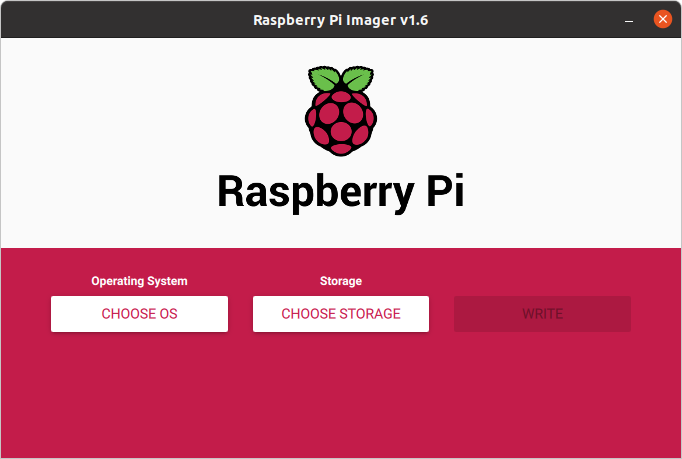
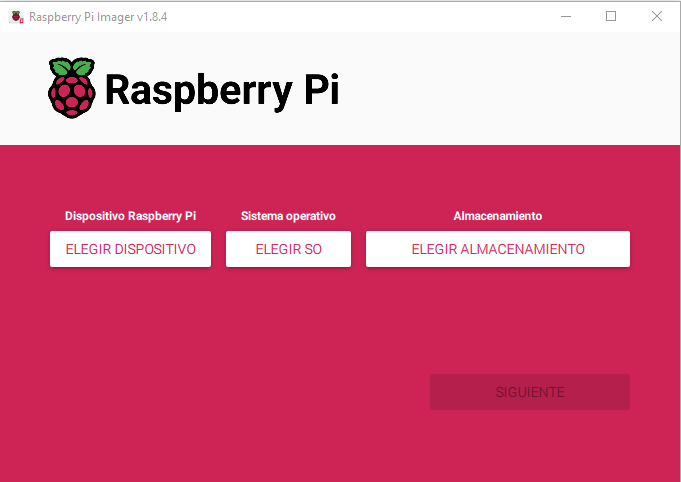
Nueva versión QuickStart

diff --git a/docs/Quick_Start.md b/docs/Quick_Start.md
@@ -4,6 +4,17 @@ title: Quick Start
 nav_order: 2
 ---
 # Puesta en marcha rápida de la Raspberry Pi
+{: .no_toc }
+
+<details open markdown="block">
+  <summary>
+    Tabla de contenidos
+  </summary>
+  {: .text-delta }
+- TOC
+{:toc}
+</details>
+
 
 ## Raspberry Pi OS
 El sistema operativo “oficial” de la Raspberry Pi es el Raspberry Pi OS, anteriormente denominado *Raspbian*. Es una adaptación de *Debian*, la popular distribución de Linux. Además de *Raspberry PI OS* (*Raspbian*) se pueden instalar otros sistemas operativos adaptados a la arquitectura ARM del procesador de la Raspberry, incluida una versión de Windows 10.
@@ -14,7 +25,8 @@ Este apartado explica cómo utilizar el instalador **Raspberry Pi Imager** para 
 
 El programa de grabación de la imagen está disponible tanto para Windows como Linux.
 
-**En esta documentación se utilizará indistintamente la nomenclatura *Raspbian* o *Raspberry Pi OS* para hacer referencia al sistema operativo.**
+{: .note }
+En esta documentación se utilizará indistintamente la nomenclatura *Raspbian* o *Raspberry Pi OS* para hacer referencia al sistema operativo.
 
 
 ## Descarga de Raspberry Pi Imager
@@ -30,7 +42,7 @@ Si el instalador de Ubuntu no se nos lanza automáticamente, podemos descargar e
 
 
 ## Grabación de la imagen
-Una vez instalado el programa de *Raspberry Pi Imager*, procedemos a la grbación de la imagen en la tarjeta SD.
+Una vez instalado el programa de *Raspberry Pi Imager*, procedemos a la grabación de la imagen en la tarjeta SD.
 
 Introducimos la tarjeta SD en el ordenador.
 
@@ -38,23 +50,290 @@ Ejecutamos el programa *Raspberry Pi Imager*.
 
 <img src="./images/0002.png" width="600">
 
-Una vez está en ejecución el programa, pulsamos la combinación mágica de teclas **Ctrl+May+X**.
+En la primera pantalla debemos indicar el modelo del dispositivo Raspberry Pi con el que vamos a trabajar, elegir el sistema operativo a instalar y la unidad donde está la tarjeta SD. 
 
-<img src="./images/0003.png" width="600">
+Para elegir el sistema operativo podemos optar por:
+- Seleccionar el sistema operativo de la lista que nos propone y que el *Imager* lo descargue automáticamente de Internet.
+- Descargar nosotros previamente el SO e indicarle en qué carpeta se encuentra nuestro fichero *.img*
 
-Rellenamos con las opciones de Configuración:
-- Ponemos el nombre de Hostname
-- Habilitamos el SSH
-- Ponemos la contraseña nueva para el ususario *Pi*
-- Configuramos la WiFi en caso de que nos vayamos a conectar por WiFi (Importante seleccionar el país de la Red WiFi)
-- Establecemos el idioma del teclado y la zona horaria
-
-Una vez guardadas las opciones de configuración, debemos elegir el sistema operativo a instalar. En este caso podemos optar por:
-- Seleccionar el sistema operativo y que el Instaler lo descargue automáticamente de Internet.
-- Descargar nosotros previamente el SO e indicarle en que carpeta se encuentra nuestro fichero *.img*
-
-Si optamos por descargarlo en ese momento, debemos asegurarnos de seleccionar el Raspbian versión Lite. Para ello pulsamos sobre **Raspberry Pi OS (Other)** y después **Raspberry Pi OS Lite (32 bits)**.
+Si optamos por descargarlo en ese momento, debemos asegurarnos de seleccionar el Raspbian versión Lite, es decir, la que no lleva interfaz gráfica puesto que no la vamos a utilizar. Para ello pulsamos sobre **Raspberry Pi OS (Other)** y después **Raspberry Pi OS Lite (64 bits)**.
 
 <img src="./images/0004.png" width="600">
 
-Sólo nos queda seleccionar la unidad de la Tarjeta SD y darle a **Write**
+Pulsamos *siguiente* y procedemos a ajustar los parámetros de personalización, que no hará más sencilla la post-instalación del sistema. Para ello pulsamos sobre *Editar Ajustes*.
+
+Rellenamos con las opciones de Configuración:
+- Ponemos el nombre de Hostname (cada uno que ponga su nombre o apellido)
+- Ponemos un pmbre de usuario y una contraseña nueva para ese ususario. Si no la especificamos por defecto será *pi* y contraseña *raspberry*
+- Configuramos la WiFi en caso de que nos vayamos a conectar por WiFi (Importante seleccionar el país de la Red WiFi)
+- Establecemos el idioma del teclado y la zona horaria
+- **Importante:** En la pestaña *Servicios* habilitamos el acceso por SSH
+
+Una vez guardadas las opciones de configuración, sólo nos queda acptar los ajustes para que empiece a escribir el Sistema Operativo en la tarjeta SD.
+
+
+## Puesta en marcha
+Una vez flasheada la tarjeta SD y creados y modificados los ficheros necesarios, la extraemos del ordenador, la introducimos en la Raspberry Pi y conectamos la fuente de alimentación y el cable de red (si no hubiéramos configurado la conexión WiFi).
+
+Al enchufar la fuente de alimentación se enciende la automáticamente la Raspberry, arrancando el sistema operativo que hemos grabado en la tarjeta SD.
+
+Si hubiéramos conectado un monitor por el puerto HDMI, así como un teclado y un ratón por los puertos USB, tendríamos un terminal listo para ser utilizado, pero vamos a prescindir de monitor, teclado y ratón y la conexión la haremos vía terminal remoto.
+
+{: .highlight }
+Si la configuración que hemos grabado ha sido correcta, al arrancar la Raspberry se ha debido activar el servicio SSH y se ha debido configurar la red o la conexión WiFi que hemos configurado, pero no sabemos la IP. El primer paso será averiguar nuestra IP mediante alguna herramienta de escaneo de la red o accediendo al router y ver qué dirección se le ha asignado. Una vez averiguada esa IP ya estaremos en condiciones de conectarnos de manera remota desde un terminal SSH.
+
+
+### Conexión por SSH
+Con la Raspberry Pi funcionando y el servicio SSH arrancado, el siguiente paso será abrir una sesión remota desde nuestro ordenador.
+
+Para conectarnos vía SSH necesitamos tener instalado en nuestro equipo un cliente SSH. Uno de los más populares es el programa PuTTY, que nos podemos descargar gratuitamente, pues es software libre (https://www.putty.org/). PuTTY nos permite conectarnos vía ssh, pero también utilizando otros protocolos.
+
+Nosotros vamos a utilizar el cliente ssh que viene instalado tanto en Linux como en Windows. Para ello basta con abrir un terminal y ejecutar el mandato *ssh*.
+
+Lo primero que debemos hacer es averiguar la IP de nuestra Raspberry Pi (si no le hemos indicado IP estática). Podemos utilizar cualquier programa de escaneo de la red. Si utilizamos Linux, desde la línea de comandos podemos ejecutar el comando *nmap*. En primer lugar lo instalamos:
+
+    $ sudo apt update
+    $ sudo apt install nmap -y
+
+Una vez instalado vamos a escanear aquellas máquinas que tienen el puero 22 (ssh) abierto de nuestra red:
+
+    $ nmap -p 22 --open 192.168.1.0/24
+
+Una de las que salgan será nuestra Raspberry Pi. Procedemos a conectarnos una vez identificada.
+
+Podemos ejecutar el ssh indicándole simplemente la dirección IP del servidor (en este caso nuestra Raspberry), pero intentaría conectarse con el nombre del usuario con el que estamos conectados. Para conectarnos con un usuario distinto debemos indicárselo en el mandato de conexión anteponiéndolo a la dirección ip:
+
+    ssh usuario@dirección_ip
+
+Por defecto, Raspbian ha creado un usuario llamado *pi* cuya contraseña es *raspberry*, a no ser que le hayamos indicado otro en los ajustes de *Imager*:
+- Usuario: **pi**
+- Contraseña: **raspberry**
+
+Nos conectamos utilizando esas credenciales a la dirección que se le ha asignado a la Raspberry Pi. Ejecutamos el comando ssh:
+
+    $ ssh pi@192.168.1.99
+
+Nos pide que confirmemos la conexión a pesar de no tener un certificado de confianza del lugar al que nos conectamos. Contestamos **yes**
+
+    The authenticity of host '192.168.1.99 (192.168.1.99)' can't be established.
+    ECDSA key fingerprint is SHA256:N2/8mPHeuypQ4f8QgBWbeCEMaqyQxse/BzzvAE8uilc.
+    Are you sure you want to continue connecting (yes/no)? yes
+
+A continuación nos pide la contraseña. En nuestro caso **raspberry**
+
+    Warning: Permanently added '192.168.1.99' (ECDSA) to the list of known hosts.
+    pi@192.168.1.99's password:
+
+Y ya estamos dentro del sistema:
+
+    Linux raspberrypi 4.19.75-v7l+ #1270 SMP Tue Sep 24 18:51:41 BST 2019 armv7l
+
+    The programs included with the Debian GNU/Linux system are free software;
+    the exact distribution terms for each program are described in the
+    individual files in /usr/share/doc/*/copyright.
+
+    Debian GNU/Linux comes with ABSOLUTELY NO WARRANTY, to the extent
+    permitted by applicable law.
+
+    SSH is enabled and the default password for the 'pi' user has not been changed.
+    This is a security risk - please login as the 'pi' user and type 'passwd' to set a new password.
+
+Nos avisa de que el SSH está activado y la contraseña del usuario pi es la que viene por defecto, suponiendo un grave riesgo de seguridad el tener la conexión expuesta de esa forma.
+
+Ya podemos empezar a disfrutar de nuestra Raspberry Pi.
+
+## Configuración de la Raspberry Pi
+Como nos advertía Raspbian nada más entrar, la contraseña de nuestro usuario es conocida por todo el mundo, así que lo primero que vamos a hacer es cambiarla. Para ello tecleamos el mandato *passwd*:
+
+    pi@raspberrypi:~ $ passwd
+
+E introducimos la contraseña antigua y dos veces la nueva:
+
+    Changing password for pi.
+    Current password: *********
+    New password: ********
+    Retype new password: *********
+    passwd: password updated successfully
+
+Esto mismo lo podríamos haber hecho con la utilidad que incluye Raspbian para configurar la RPi. Esta utilidad se llama *raspi-config* y puesto que necesitamos privilegios de administrador para ejecutarla, la invocamos anteponiendo el *sudo*:
+
+    pi@raspberrypi:~ $ sudo raspi-config
+
+{: .note }
+Puesto que hemos configurado los ajustes de nombre de equipo, WiFi, idioma y teclado en el programa de grabación de la imagen, no hace falta que modifiquemos aquí ningún parámetro de ajuste.
+
+Al entrar en *raspi-config* nos aparece un menú como el siguiente:
+
+<img src="./images/0005.png" width="650">
+
+Desde la opción **System Options** podemos cambiar la contraseña del usuario tal y como hemos hecho desde la línea de comandos y otras opciones como la confiuración de la red.
+
+También nos permite cambiar el nombre de la máquina (**Hostname**). Por ejemplo *asir1rpi01*
+
+![hostname](./images/0110.png)
+
+Después entramos en la opción **Localisation Options** para cambiar la configuración del idioma y la zona horaria:
+
+<img src="./images/0111.png" width="650">
+
+En primer lugar cambiamos la configuración regional del idioma, pulsamos sobre **Change Locale**. En el menú que nos aparece, avanzamos página con las teclas hasta selecciona la opción del idioma español de España con UTF-8. Cuando estemos sobre él pulsamos la barra espaciadora para seleccionarlo:
+
+<img src="./images/0112.png" width="650">
+
+Con el tabulador nos movemos hasta el OK y pulsamos Intro.
+
+En la siguiente pantalla lo seleccionamos como idioma por defecto:
+
+<img src="./images/0113.png" width="650">
+
+Después de instalarse el paquete de idiomas, volvemos a entrar en la opción **Localisation Options** para cambiar la zona horaria:
+
+<img src="./images/0114.png" width="650">
+
+Seleccionamos Europa-->Madrid.
+
+El teclado no hará falta cambiarlo, pero es posible que si hubiéramos arrancado desde un terminal con un teclado conectado al USB nos tocara configurarlo si no lo hubiera hecho de manera automática.
+
+Salimos del programa de configuración con la opción Finish y nos pide reiniciar la RPi. Seleccionamos NO. La reiniciaremos después:
+
+<img src="./images/0115.png" width="350">
+
+## Generación de un par de claves SSH
+Ya hemos visto cómo conectarnos remotamente a un equipo (a nuestra RPi) mediante el protocolo SSH. Vamos a dar un nivel más de seguridad a la conexión haciendo que la conexión al equipo sea mediante una autenticación de clave pública (en lugar de usuario y contraseña). Esto, además, nos resultará muy cómodo porque nos evitará teclear cada vez la contraseña.
+
+La autenticación con clave pública para conectarse a un servidor remoto usando el protocolo SSH funciona con dos claves: una pública y otra privada. Para entender el funcionamiento se suele recurrir a la metáfora del candado y la llave. La clave pública funciona como un candado y la privada como la llave. El candado se colocará en el servidor remoto al que se quiere acceder (en este caso en la Raspberry Pi); cuando se intenta acceder se comprobará que la máquina que intenta conectar (nuestro PC) tiene la llave, es decir, la clave privada.
+
+Para configurar el acceso SSH con clave pública hay que hacer los siguientes pasos:
+- Generar el par de claves pública/privada en nuestro ordenador.
+- Copiar la clave pública al servidor (la Raspberry).
+- Deshabilitar el acceso al servidor con contraseña.
+
+{: .warning }
+Al tratarse el nuestro de un entorno de pruebas, el último paso de **deshabilitar el acceso mediante contraseña no lo vamos a hacer**, así evitaremos problemas y podremos conectarnos desde cualquier equipo y con cualquier usuario poniendo la contraseña.
+
+### Generación de las claves
+En primer lugar, para generar las claves podemos usar **ssh-keygen** en la máquina local desde la que nos queremos conectar al servidor.
+
+Si estamos conectados a la Raspberry Pi, en primer lugar vamos a salir tecleando *exit*. Con este comando cerramos sesión pero no apagamos la Raspberry.
+
+    pi@asir1rpi01:~ $ exit
+
+Ahora ya, en nuestra máquina (Windows o Linux), y sin tener ninguna conexión SSH abierta, tecleamos:
+
+    ssh-keygen -t rsa -b 4096
+
+ssh-keygen pide la ruta y el nombre del archivo que alojará las claves pública y privada. La clave privada se puede proteger a su vez con una contraseña. De esta manera, si cae en manos no deseadas, lo tendrá un poco más difícil para usarla.
+
+    Generating public/private rsa key pair.
+    Enter file in which to save the key (C:\Users\Usuario/.ssh/id_rsa):
+    Enter passphrase (empty for no passphrase):
+    Enter same passphrase again:
+    Your identification has been saved in C:\Users\Usuario/.ssh/id_rsa.
+    Your public key has been saved in C:\Users\Usuario/.ssh/id_rsa.pub.
+    The key fingerprint is:
+    SHA256:jR7xnkMP3xQLjK3Y644hSRN8UYRCcnMtyAZkxh85ggI usuario@equipo
+    The key's randomart image is:
+    +---[RSA 4096]----+
+    |E  +*++oo=o      |
+    |. .oo+Ooo..+     |
+    | .   +o+o.. + .  |
+    |      .o B . . o |
+    |      o S B . o  |
+    |     o + + * o   |
+    |      o o = o .  |
+    |       . + .     |
+    |        ..o      |
+    +----[SHA256]-----+
+
+ssh-keygen generará dos archivos:
+- **id_rsa** es la clave privada, la que permanecerá en la máquina local.
+- **id_rsa.pub** es la clave pública, la que se tiene que copiar al servidor remoto al que se quiere acceder (el candado que decíamos en la RPi).
+
+Ambos ficheros los crea (si no le indicamos lo contrario) en una carpeta llamada *.ssh* dentro de nuestra carpeta personal.
+
+### Copia de la clave pública en la Raspberry Pi
+Una vez generado el par de claves en la máquina local hay que copiar la clave pública al servidor remoto, es decir, a nuestra Raspberry Pi.
+
+Si nuestra ordenador es una máquina Linux, podemos hacerlo directamente mediante el comando *ssh-copy-id*, pero si trabajamos con una máquina Windows, hemos de hacer unos pasos más.
+
+
+{: .note-title }
+> Máquina Linux
+>
+> Copiamos directamente el archivo de clave pública desde el cliente al servidor con el comando *ssh-copy-id*:
+>
+>    `$ ssh-copy-id pi@192.168.1.99`
+
+Si lo hacemos desde una máquina Windows: (estos mismos pasos funcionan desde una máquina Linux en caso de no tener el comando *ssh-copy-id*)
+
+{: .note-title }
+> Máquina Windows (también para Linux)
+>
+> Copiamos el archivo de clave pública desde el cliente al servidor con el comando *scp* (ssh copy) indicando la ruta de origen de nuestra máquina y la ruta destino de la raspberry:
+>
+>    `$ scp ~/.ssh/id_rsa.pub pi@192.168.1.99:/home/pi/uploaded_key.pub`
+>
+> Una vez copiado, iniciamos de nuevo sesión en la Raspberry:
+>
+>   `$ ssh pi@192.168.1.99`
+>
+>La clave pública hay que incluirla en el archivo **authorized_keys** dentro de un directorio llamado *.ssh* de la carpeta personal del usuario pi (*/home/pi/.ssh/authorized_keys*). Como la carpeta *.*ssh* no existe, la creamos antes de copiar, así como el archivo *authorized_keys*:
+>
+>    `pi@asir1rpi01:~ $ mkdir .ssh`
+>    `pi@asir1rpi01:~ $ chmod 700 .ssh`
+>    `pi@asir1rpi01:~ $ touch .ssh/authorized_keys`
+>    `pi@asir1rpi01:~ $ chmod 644 .ssh/authorized_keys`
+>
+>Una ve creados los ficheros necesarios copiamos el contenido del fichero que acabamos de subir al fichero */home/pi/.ssh/authorized_keys* que acabamos de crear:
+>
+>    `pi@asir1rpi01:~ $ cat /home/pi/uploaded_key.pub >> /home/pi/.ssh/authorized_keys`
+
+A partir de este momento, si cerramos la sesión ssh, cada vez que nos conectemos desde ese mismo equipo y con ese mismo usuario a nuestra raspberry, ya no nos pedirá la contraseña.
+
+### Deshabilitación del acceso por contraseña
+Una vez habilitado el acceso SSH mediante clave pública, se puede deshabilitar el acceso con contraseña. Esto aumentará la seguridad, pero implica que si se pierde la clave privada se perderá el acceso al servidor: hay que guardar cuidadosamente la clave privada.
+
+{: .warning }
+Para deshabilitar el acceso por contraseña hay que seguir los siguientes pasos. **Nosotros no los vamos a ejecutar**.
+
+La configuración del servidor SSH se puede encontrar en el archivo */etc/ssh/sshd_config*. Para deshabilitar el acceso SSH con contraseña hay editar el archivo con *sudo*:
+
+    pi@asir1pi01:~ $ sudo nano /etc/ssh/sshd_config
+
+Y añadimos la siguiente línea:
+
+    PasswordAuthentication no
+
+Para aumentar la seguridad se pueden hacer dos ajustes adicionales en el archivo */etc/ssh/sshd_config*.
+Desactivar el acceso ssh para el usuario *root*:
+
+    PermitRootLogin no
+
+Dar acceso SSH solo a los usuarios que lo necesiten, y no a todos:
+
+    AllowUsers usuario1 usuario2
+
+Una vez realizados los cambios, hay que reiniciar el servidor SSH, siempre como *root*:
+
+    pi@raspberrypi:~ $ sudo service sshd restart
+	
+
+## Desconexión y apagado de la Raspberry Pi
+Por último, cada vez que deseemos cerrar una sesión de terminal (bien sea mediante SSH o desde una consola) sin apagar la Raspberry Pi, debemos teclear el mandato *exit*:
+
+    pi@raspberrypi:~ $ exit
+
+Si lo que deseamos es reiniciar el sistema, teclearemos la orden *reboot* (con privilegios de administrador):
+
+    pi@raspberrypi:~ $ sudo reboot
+
+Para apagar el sistema podemos ejecutar *poweroff* o *shutdown*. Nosotros vamos a ejecutar el mandato *shutdown* con las opciones *-h* para que pare (halt) y *now* para que no espere un tiempo para apagar:
+
+    pi@raspberrypi:~ $ sudo shutdown -h now
+
+{: .note }
+> Apagaremos siempre la raspberry mediante el comando:
+>    `sudo shutdown -h now`
+
+{: .warning }
+Una vez ejecutemos el shutdown se cerrará la conexión ssh pero el sistema continuará el proceso de apagado y no sabremos en qué situación se encuentra. Deberemos esperar unos minutos hasta que el sistema esté completamente apagado antes de retirar el cable de alimentación.
